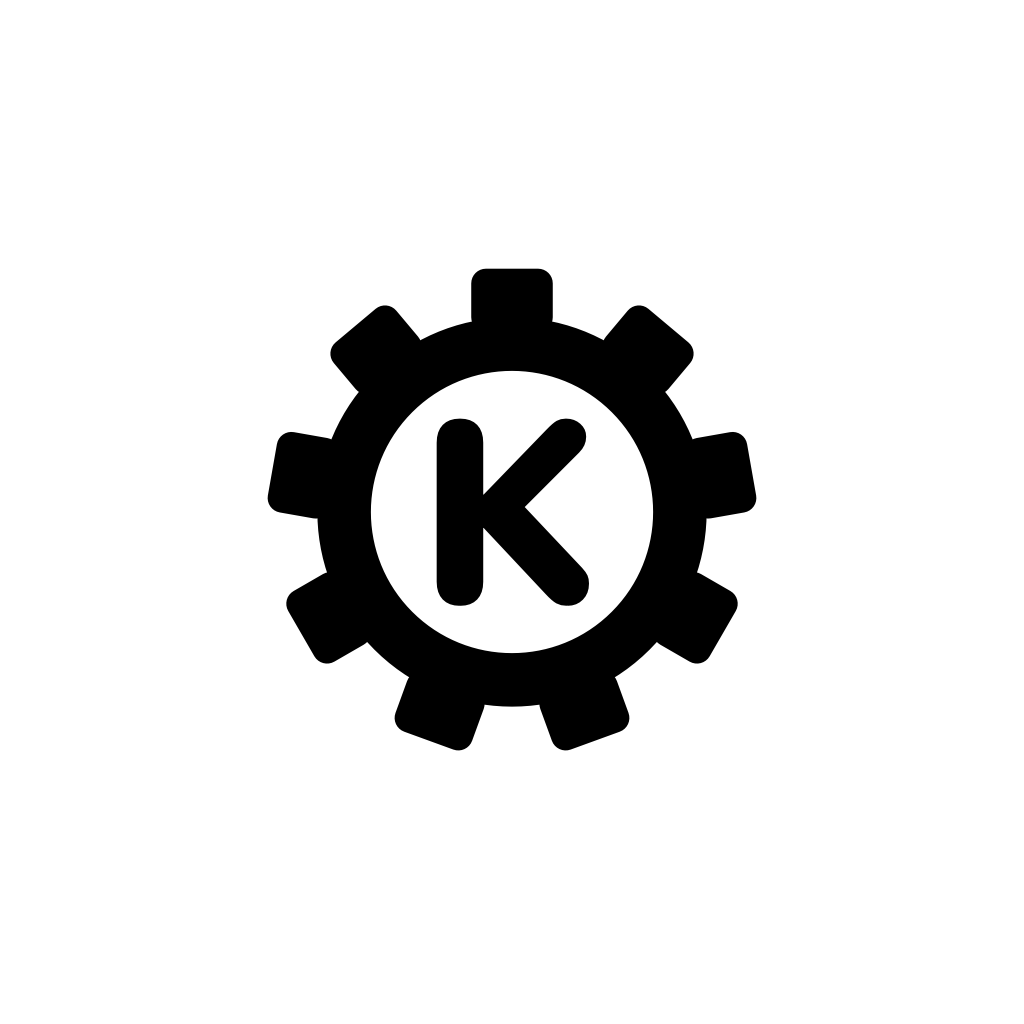
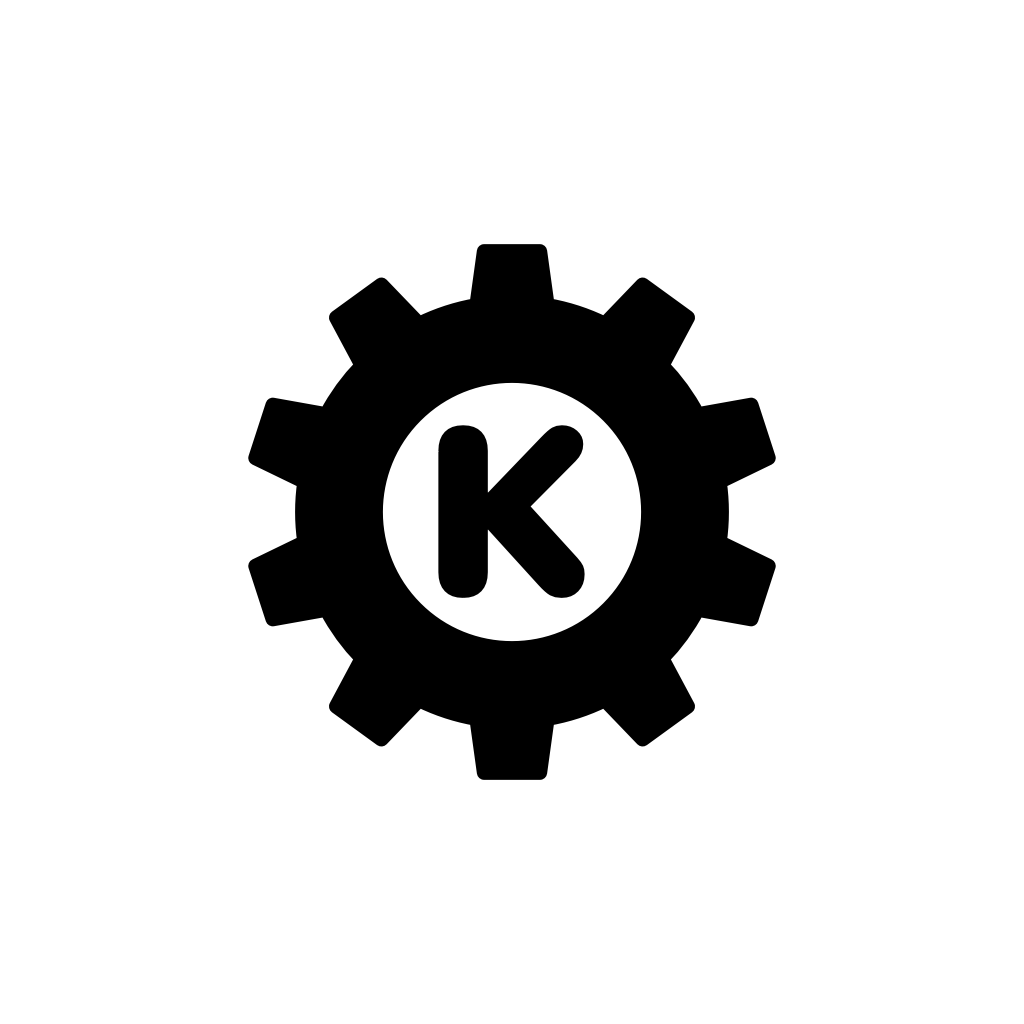
Логотип: аккуратная шестерёнка с трапециевидными зубьями; на входе шестерёнка медленно крутится, «К» на месте

Changed region(s): [[0.2188, 0.2188, 0.7812, 0.7812], [0.4688, 0.4375, 0.5312, 0.5625], [0.5312, 0.5, 0.5625, 0.5312]]

diff --git a/src/app/index.tsx b/src/app/index.tsx
@@ -1,8 +1,9 @@
 import { useState } from 'react'
-import { Image, Keyboard, Linking, Pressable, Text, TextInput, View } from 'react-native'
+import { Keyboard, Linking, Pressable, Text, TextInput, View } from 'react-native'
 import { Redirect, router } from 'expo-router'
 import { LinearGradient } from 'expo-linear-gradient'
 import { Button } from '@/components/ui'
+import { SpinningLogo } from '@/components/logo'
 import { AUTH_FIELD_HEIGHT, AuthLayout } from '@/components/auth-layout'
 import { fontFamily, useColors } from '@/theme'
 import { COUNTRY_CODE, formatLocalPhone, isValidLocalPhone, toE164 } from '@/lib/phone'
@@ -97,7 +98,7 @@ export default function PhoneScreen() {
 					end={{ x: 0.9, y: 1 }}
 					style={{ height: 196, borderRadius: 28, paddingHorizontal: 22, flexDirection: 'row', alignItems: 'center', gap: 16 }}
 				>
-					<Image source={require('../../assets/images/logo-mark.png')} style={{ width: 92, height: 92 }} />
+					<SpinningLogo size={92} />
 					<View style={{ flex: 1, gap: 6 }}>
 						<Text style={{ fontSize: 28, lineHeight: 34, fontFamily: fontFamily(800), letterSpacing: -0.5, color: '#FFFFFF' }}>{t('Кудайберген')}</Text>
 						<Text style={{ fontSize: 15.5, lineHeight: 21, fontFamily: fontFamily(500), color: 'rgba(255,255,255,0.85)' }}>{t('Авторынок запчастей в Бишкеке')}</Text>

diff --git a/src/components/logo.tsx b/src/components/logo.tsx
@@ -1,0 +1,19 @@
+import { useEffect, useState } from 'react'
+import { Animated, Easing, Image, View } from 'react-native'
+
+/** The «К» in a gear — the gear turns slowly, the letter stays put (sign-in screen). */
+export function SpinningLogo({ size }: { size: number }) {
+	const [turn] = useState(() => new Animated.Value(0))
+	useEffect(() => {
+		const loop = Animated.loop(Animated.timing(turn, { toValue: 1, duration: 9000, easing: Easing.linear, useNativeDriver: true }))
+		loop.start()
+		return () => loop.stop()
+	}, [turn])
+	const rotate = turn.interpolate({ inputRange: [0, 1], outputRange: ['0deg', '360deg'] })
+	return (
+		<View style={{ width: size, height: size }}>
+			<Animated.Image source={require('../../assets/images/logo-gear.png')} style={{ position: 'absolute', width: size, height: size, transform: [{ rotate }] }} />
+			<Image source={require('../../assets/images/logo-k.png')} style={{ position: 'absolute', width: size, height: size }} />
+		</View>
+	)
+}
